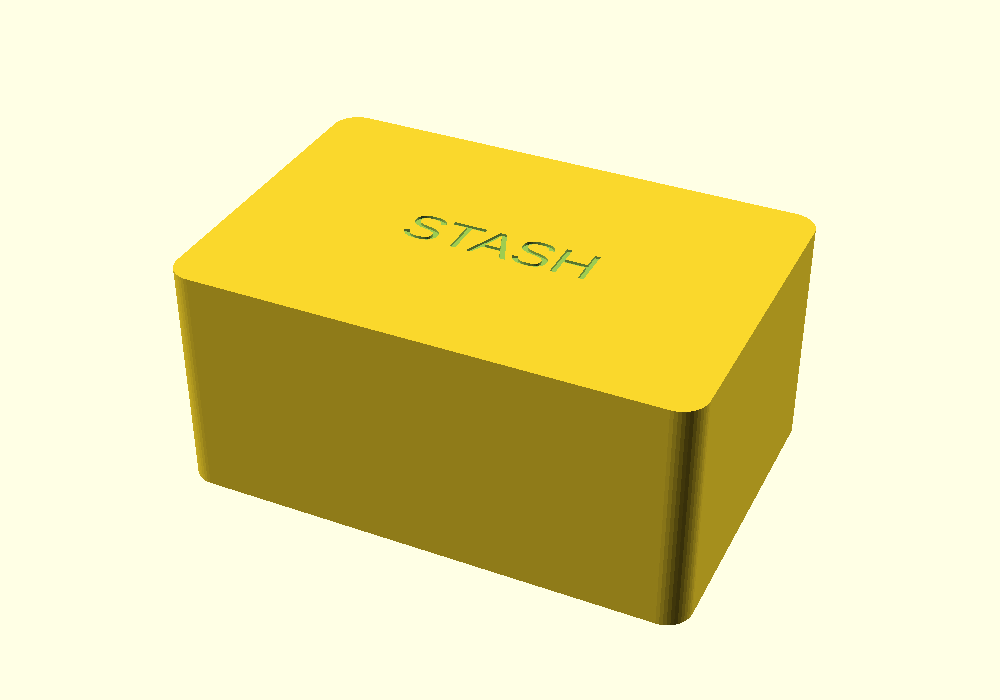
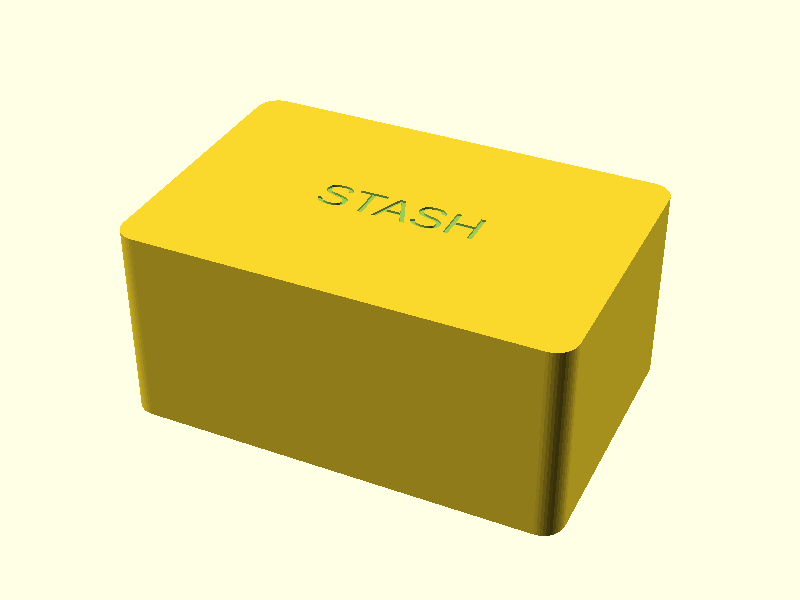
Flush case: use flush_knuckle_hinge instead of thin-leaf piano emulation
Route hinge_type="flush" to the hinge library's flush_knuckle_hinge:
full-thickness leaf plates run to the axis with scallop nesting, so the
lid now opens flat to 180 degrees (was ~120). Knuckle count derived at
~8mm pitch, forced odd so the lid leaf owns both ends and the blind
plug + glue-in cap rod retention is unchanged. Crate/rugged path
untouched. Update README, echo text, and flush renders.

diff --git a/README.md b/README.md
@@ -38,20 +38,22 @@ hinged_box(
 | `"piano"` (default) | One continuous knuckle hinge across the back seam — even load spread, sturdiest | 1.75mm filament offcut |
 | `"knuckle"` | `hinge_count` discrete knuckle hinges — lighter, classic look | 1.75mm filament offcut |
 | `"crate"` | Chunky raised-lug crate hinges, lid opens past 180° — the rugged/ammo-box look | 4mm rod, or the printed pins emitted beside the parts |
-| `"flush"` | Fully hidden hinge: pivot buried mid-wall, knuckle OD = wall thickness, zero protrusion; works down to 2mm walls; lid opens ~120°, not 180° | 0.8mm rod/wire, slid in along the seam; far end blind, printed cap glues into the first knuckle |
+| `"flush"` | Fully hidden hinge: pivot buried mid-wall, knuckle OD = wall thickness, zero protrusion; works down to 2mm walls; lid opens flat to 180° | 0.8mm rod/wire, slid in along the seam; far end blind, printed cap glues into the first knuckle |
 
 The hinge geometry itself comes from
 [OpenSCAD_hinge](https://github.com/morganp/OpenSCAD_hinge)'s `piano_hinge` /
-`knuckle_hinge` / `crate_hinge`, emitted one leaf at a time (`parts="leaf1"/"leaf2"`) so
-each printed part gets its own fused leaf.
+`knuckle_hinge` / `crate_hinge` / `flush_knuckle_hinge`, emitted one leaf at a time
+(`parts="leaf1"/"leaf2"`) so each printed part gets its own fused leaf.
 
 ### Flush (hidden) hinge variation
 
 `hinge_type="flush"` buries the pivot in the middle of the back wall: the knuckles are sized
 to the wall thickness and nothing protrudes past the outer face — the hinge reads as a plain
-seam with a knuckle line inside a cove. Works down to 2mm walls (2mm knuckles). The trade-off
-is a ~120° opening: anything through a mid-wall pivot must be coaxial knuckles, and the rims
-need the cove to swing past the buried axis.
+seam with a knuckle line inside a cove. Works down to 2mm walls (2mm knuckles). The hinge is
+`flush_knuckle_hinge`: each leaf plate is as thick as the wall and runs right up to the axis,
+with a scallop along its inner edge that nests the other leaf's knuckles at close radial
+tolerance, so it closes flat and the lid opens flat to a full 180°. Outside the hinge span
+the rims still carry a cove relief to swing past the buried axis.
 
 The pin is a 0.8mm rod or wire (`pin_d` auto). The axis line runs through open air behind
 the rounded back corner, so the rod slides straight in along the seam with no tunnel; a plug
@@ -122,7 +124,7 @@ supports; the chunky crate lugs stick out further and may want supports or tuned
 | `hinge_len` | 30 | Leaf length along X per discrete hinge (knuckle/crate) |
 | `hinge_margin` | 8 | Hinge inset from each end along X |
 | `knuckle_od` | 0 (auto) | Piano/knuckle barrel OD; auto = `max(5, 2*wall)`; flush forces `wall` |
-| `pin_d` | 0 (auto) | Hinge pin diameter; auto = 1.75 (filament), 4 for crate, `wall - 1.4` for flush |
+| `pin_d` | 0 (auto) | Hinge pin diameter; auto = 1.75 (filament), 4 for crate, 0.8 for flush |
 | `pin_clearance` | 0.25 | Radial pin-to-bore clearance |
 | `leaf_thickness` | 2 | Hinge leaf/strap thickness, recessed into the back walls (clamped to `wall - 0.4`) |
 | `lip_h` | 4 | Alignment lip height above the seam (clamped to fit inside the lid cavity) |

diff --git a/todo.md b/todo.md
@@ -1,5 +1,12 @@
 # todo
 
+## Done 2026-07-15 — flush case uses flush_knuckle_hinge
+
+- [x] `hinge_type="flush"` now emits `flush_knuckle_hinge` from the hinge library instead of
+      emulating a buried pivot with a thin-leaf `piano_hinge`. Full-thickness leaf plates run
+      to the axis with scallop nesting, so the lid opens flat to 180 (was ~120). Rugged
+      ("crate") path unchanged. Pin/cap/blind-plug retention scheme unchanged (0.8mm rod).
+
 ## Done 2026-07-09 — hinged_box redesign (two-tray, pinned hinges)
 
 Review found the old flat-fold design unprintable at all (the open-pose lid panel floated at